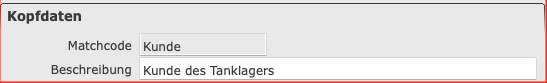
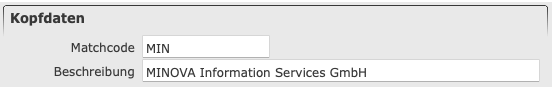
Benutzerhandbuch erweitern

Changed region(s): [[0.0, 0.0, 1.0, 1.0], [0.1243, 0.4819, 0.3419, 0.6265]]

diff --git a/doc/masks/sections.md b/doc/masks/sections.md
@@ -2,11 +2,46 @@
 
 Als Sektion wird ein Abschnitt im [Detailbereich](overview.md#3-detailbereich) bezeichnet. Diese enthalten Felder und Tabellen. Im folgenden werden standard Sektionen und Felder beschrieben.
 
-## Kopfdaten
+#### Kopfdaten
 
-Jede Maske beginnt mit den Kopfdaten. Diese besitzen das Feld MatchCode, in dem ein eindeutiges Kürzel für den anzulegenden Datensatz vergeben werden muss.<br>
+Jede Maske beginnt mit den Kopfdaten. Diese besitzen das Feld [MatchCode](matchcode.md), in dem ein eindeutiges Kürzel für den anzulegenden Datensatz vergeben werden muss.<br>
 Wurde der Datensatz einmal gespeichert, kann der MatchCode nicht mehr verändert werden.<br>
 Er dient als Identifikation des Datensatzes z. B. bei der Eingabe von Adressen oder bei der Auswahl aus einer Liste.<br>
 In diesem Feld sollten Leerzeichen möglichst vermieden werden.
 
+**Beispiel**<br>
+Kopfdaten für den Kunden MINOVA
+
 ![](img/customer_example_detail_head.png)
+
+Auf die Kopfdaten können nun entweder eine weitere normale [Sektion](#sektion), eine [Tabelle](#tabelle) oder eine [Vorschau](#vorschau) folgen.
+
+#### Sektion
+
+Die normale Sektion ist so aufgebaut wie die Kopfdaten und enthält verschiedene Felder, Auswahlboxen und Tabellen. Der einzige Unterschied liegt darin, dass die normale Sektion auf- und zuklappbar ist. 
+
+**Beispiel**<br>
+Adresse für den Kunden MINOVA
+
+![](img/customer_example_detail_address.png)
+
+**Beispiel**<br>
+Zugeklappte Sektion Adresse
+
+![](img/customer_example_detail_address_closed.png)
+
+#### Tabelle
+
+Die Tabelle kann sowohl als Element in einer Sektion oder eigenständig genutzt werden. Die Funktionsweise unterscheidet sich bei beiden Arten nicht. Die Tabelle hat eine eigene Schaltflächen Leiste. Diese enthält Funktionen exklusive für die Tabelle. Die Schaltflächen sind unter [Tabellen Schaltflächen](/doc/buttons/grid_toolbar_buttons.md) genauer beschrieben.
+
+**Beispiel**<br>
+Leere Tabelle Sonderausstattung in Stammdaten
+
+![](img/customer_example_detail_grid_empty.png)
+
+**Beispiel**<br>
+Ausgefüllte Tabelle mit Beispieldaten
+
+![](img/customer_example_detail_grid_filled.png)
+
+#### Vorschau

diff --git a/doc/masks/matchcode.md b/doc/masks/matchcode.md
@@ -1,0 +1,23 @@
+# MatchCode
+
+Jede Stammdatenmaske besitzt das Feld MatchCode, in dem ein eindeutiges Kürzel für den anzulegenden Datensatz vergeben werden muss.
+Wurde der Datensatz einmal gespeichert, kann der MatchCode nicht mehr verändert werden.
+Er dient als Identifikation des Datensatzes z. B. bei der Eingabe von Adressen oder bei der Auswahl aus einer Liste.
+In diesem Feld sollten Leerzeichen möglichst vermieden werden.
+
+Zulässige Zeichen für MatchCodes sind:
+
+Hex Code | Zeichen | Beschreibung
+-------- | ------- | ------------
+ASCII 0x32 |       | Space
+ASCII 0x2A | * | Stern
+ASCII 0x2C | , | Komma
+ASCII 0x2E | . | Punkt
+ASCII 0x2D | - | Minus
+ASCII 0x2F | / | Schrägstrich
+ASCII 0x30-0x39 | 0-9 | Zahlen
+ASCII 0x41-0x5A | A-Z | Großbuchstaben
+ASCII 0x5F | _ | Unterstrich
+Unicode 0x00E4 | Ä | Groß Ä
+Unicode 0x00FC | Ü | Groß Ü
+Unicode 0x00F6 | Ö | Groß Ö
